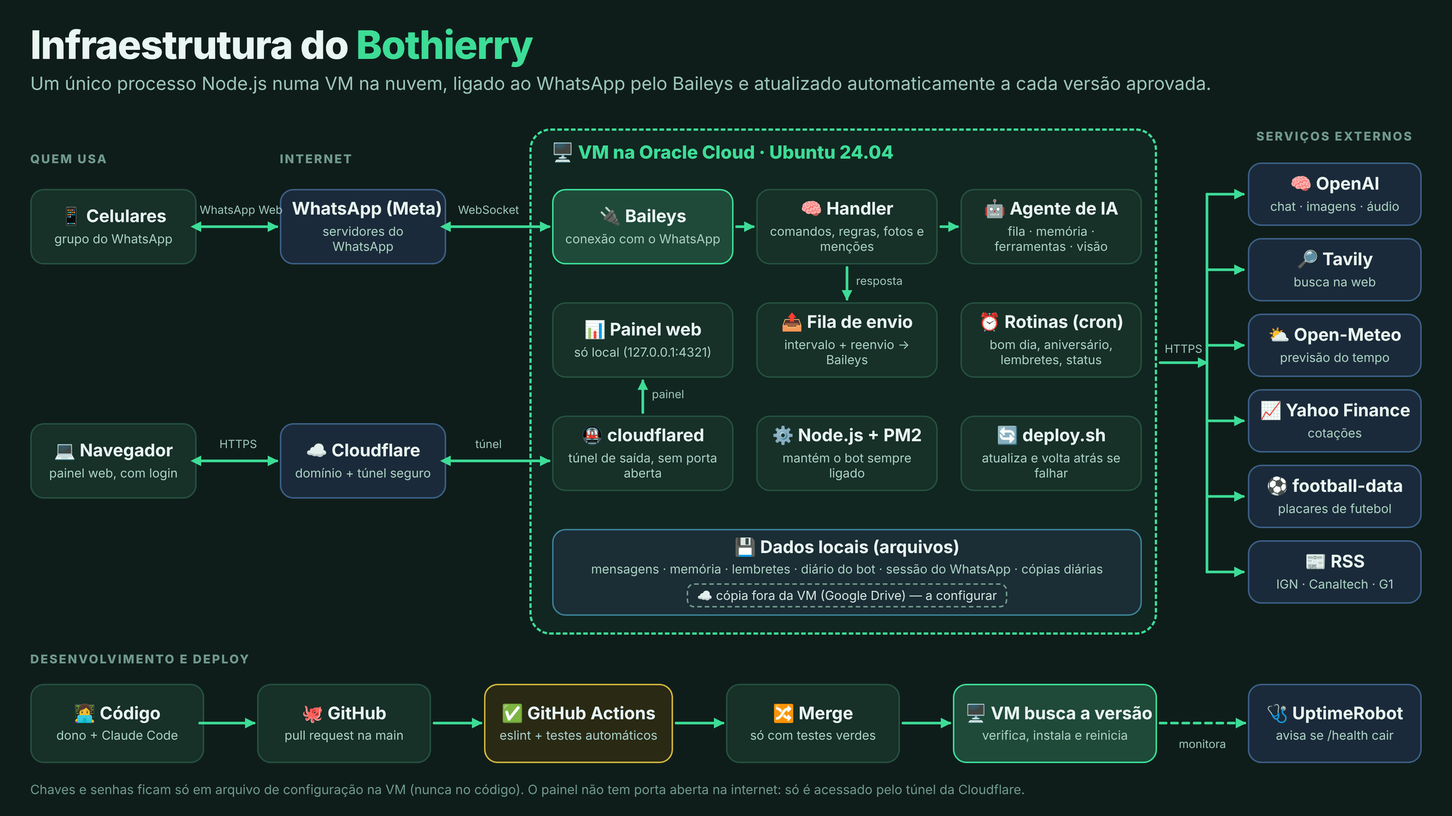
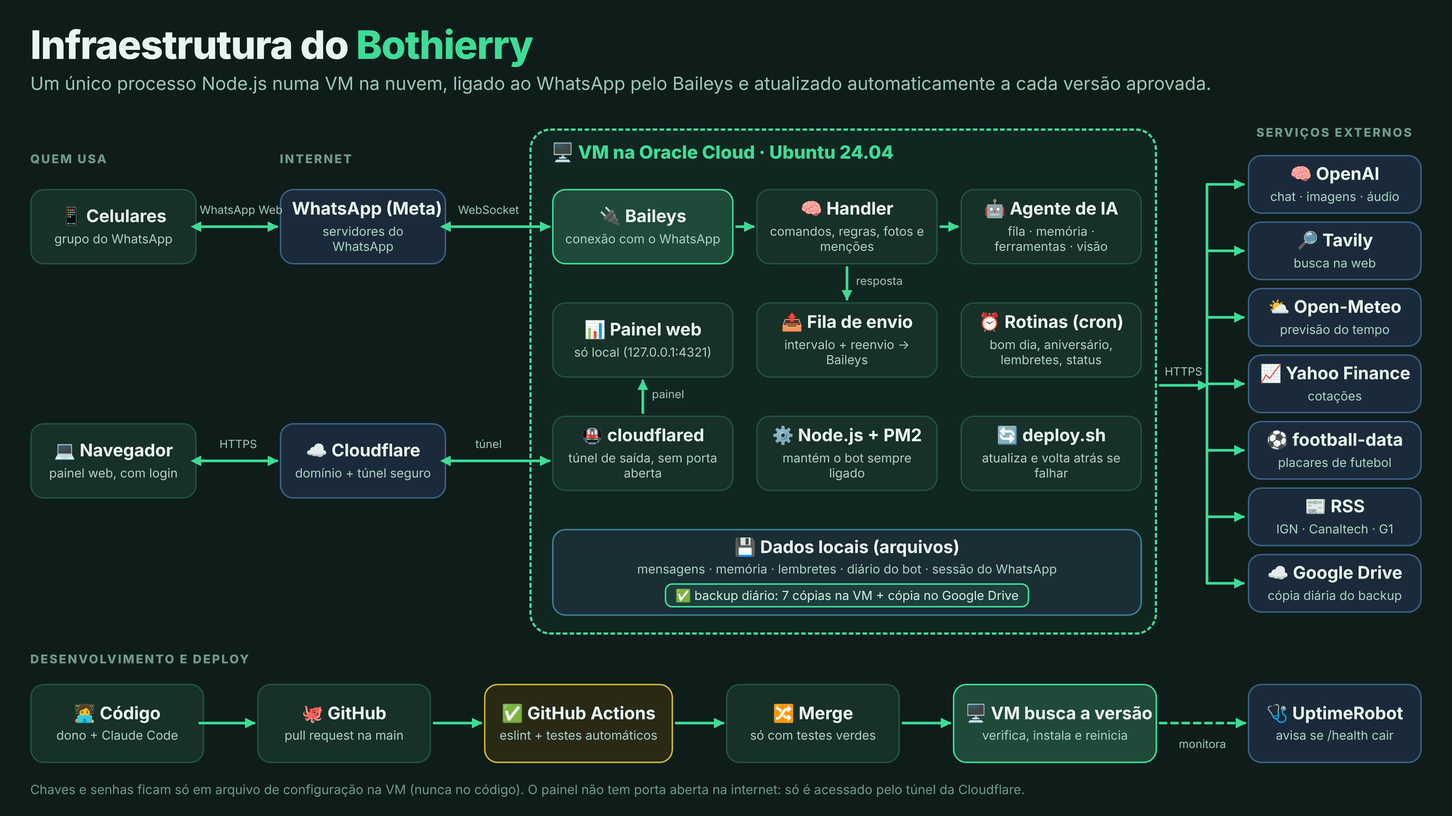
Backup no Google Drive ativo: README, infografico e gerador (#89)
Claude-Session: https://claude.ai/code/session_01PGpMX7HsPNBaK5Bjc6Ssx7

Changed region(s): [[0.7812, 0.1556, 1.0, 0.7778], [0.4062, 0.6844, 0.75, 0.7467]]

diff --git a/docs/fontes/infraestrutura.html b/docs/fontes/infraestrutura.html
@@ -1,0 +1,48 @@
+<!doctype html><html lang="pt-BR"><head><meta charset="utf-8"><meta name="viewport" content="width=1920">
+<style>
+*{box-sizing:border-box;margin:0;padding:0}
+body{width:1920px;height:1080px;background:#0f1d1a;color:#e9f5f1;font-family:-apple-system,"Segoe UI",Roboto,"Helvetica Neue",Arial,sans-serif;position:relative;overflow:hidden}
+h1{position:absolute;left:40px;top:28px;font-size:52px;font-weight:800;letter-spacing:-1px}
+h1 span{color:#3ddc97}
+.sub{position:absolute;left:40px;top:96px;font-size:24px;color:#9fc4b8}
+.b{position:absolute;background:#173028;border:2px solid #25503f;border-radius:18px;padding:12px 14px;display:flex;flex-direction:column;justify-content:center;text-align:center}
+.b b{font-size:23px;line-height:1.15;white-space:nowrap}
+.b small{font-size:16.5px;color:#a9d1c4;margin-top:6px;line-height:1.25}
+.b.hot{background:#1f4a39;border-color:#3ddc97}
+.b.ext{background:#1b2a3a;border-color:#3b5f86}
+.b.ci{background:#2a2a14;border-color:#c9b43c}
+.b.store{background:#1b2d35;border-color:#3a7f93}
+.ok{display:inline-block;margin-top:8px;border:2px solid #3ddc97;border-radius:10px;padding:4px 12px;color:#cfeee2;background:rgba(61,220,151,.10)}
+.vm{position:absolute;border:3px dashed #3ddc97;border-radius:28px;background:rgba(61,220,151,.05)}
+.vmt{position:absolute;top:14px;left:26px;font-size:24px;font-weight:800;color:#3ddc97}
+.arrows{position:absolute;left:0;top:0;pointer-events:none}
+.lab{position:absolute;font-size:15px;color:#9fc4b8;white-space:nowrap}
+.sect{position:absolute;font-size:16px;letter-spacing:2px;font-weight:800;color:#6f9a8c}
+.colt{position:absolute;font-size:16px;letter-spacing:2px;font-weight:800;color:#6f9a8c;text-align:center;text-transform:uppercase}
+.note{position:absolute;left:40px;top:1036px;font-size:17px;color:#6f9a8c}
+</style></head><body>
+<h1>Infraestrutura do <span>Bothierry</span></h1>
+<div class="sub">Um único processo Node.js numa VM na nuvem, ligado ao WhatsApp pelo Baileys e atualizado automaticamente a cada versão aprovada.</div>
+<div class="vm" style="left:700px;top:170px;width:830px;height:670px"><div class="vmt">🖥 VM na Oracle Cloud · Ubuntu 24.04</div></div>
+<div class="b " style="left:40px;top:250px;width:220px;height:100px"><b>📱 Celulares</b><small>grupo do WhatsApp</small></div><div class="b ext" style="left:370px;top:250px;width:220px;height:100px"><b>WhatsApp (Meta)</b><small>servidores do WhatsApp</small></div><div class="b " style="left:40px;top:560px;width:220px;height:100px"><b>💻 Navegador</b><small>painel web, com login</small></div><div class="b ext" style="left:370px;top:560px;width:220px;height:100px"><b>☁ Cloudflare</b><small>domínio + túnel seguro</small></div><div class="b hot" style="left:730px;top:250px;width:240px;height:100px"><b>🔌 Baileys</b><small>conexão com o WhatsApp</small></div><div class="b " style="left:1000px;top:250px;width:240px;height:100px"><b>🧠 Handler</b><small>comandos, regras, fotos e menções</small></div><div class="b " style="left:1270px;top:250px;width:240px;height:100px"><b>🤖 Agente de IA</b><small>fila · memória · ferramentas · visão</small></div><div class="b " style="left:730px;top:400px;width:240px;height:100px"><b>📊 Painel web</b><small>só local (127.0.0.1:4321)</small></div><div class="b " style="left:1000px;top:400px;width:240px;height:100px"><b>📤 Fila de envio</b><small>intervalo + reenvio → Baileys</small></div><div class="b " style="left:1270px;top:400px;width:240px;height:100px"><b>⏰ Rotinas (cron)</b><small>bom dia, aniversário, lembretes, status</small></div><div class="b " style="left:730px;top:550px;width:240px;height:100px"><b>🚇 cloudflared</b><small>túnel de saída, sem porta aberta</small></div><div class="b " style="left:1000px;top:550px;width:240px;height:100px"><b>⚙ Node.js + PM2</b><small>mantém o bot sempre ligado</small></div><div class="b " style="left:1270px;top:550px;width:240px;height:100px"><b>🔄 deploy.sh</b><small>atualiza e volta atrás se falhar</small></div><div class="b store" style="left:730px;top:700px;width:780px;height:115px"><b>💾 Dados locais (arquivos)</b><small>mensagens · memória · lembretes · diário do bot · sessão do WhatsApp<br><span class="ok">✅ backup diário: 7 cópias na VM + cópia no Google Drive</span></small></div><div class="b ext" style="left:1650px;top:205px;width:230px;height:78px"><b>🧠 OpenAI</b><small>chat · imagens · áudio</small></div><div class="b ext" style="left:1650px;top:293px;width:230px;height:78px"><b>🔎 Tavily</b><small>busca na web</small></div><div class="b ext" style="left:1650px;top:381px;width:230px;height:78px"><b>⛅ Open-Meteo</b><small>previsão do tempo</small></div><div class="b ext" style="left:1650px;top:469px;width:230px;height:78px"><b>📈 Yahoo Finance</b><small>cotações</small></div><div class="b ext" style="left:1650px;top:557px;width:230px;height:78px"><b>⚽ football-data</b><small>placares de futebol</small></div><div class="b ext" style="left:1650px;top:645px;width:230px;height:78px"><b>📰 RSS</b><small>IGN · Canaltech · G1</small></div><div class="b ext" style="left:1650px;top:733px;width:230px;height:78px"><b>☁ Google Drive</b><small>cópia diária do backup</small></div><div class="colt" style="left:1630px;top:165px;width:270px">Serviços externos</div><div class="b " style="left:40px;top:905px;width:230px;height:105px"><b>👩💻 Código</b><small>dono + Claude Code</small></div><div class="b " style="left:340px;top:905px;width:230px;height:105px"><b>🐙 GitHub</b><small>pull request na main</small></div><div class="b ci" style="left:640px;top:905px;width:250px;height:105px"><b>✅ GitHub Actions</b><small>eslint + testes automáticos</small></div><div class="b " style="left:960px;top:905px;width:230px;height:105px"><b>🔀 Merge</b><small>só com testes verdes</small></div><div class="b hot" style="left:1260px;top:905px;width:270px;height:105px"><b>🖥 VM busca a versão</b><small>verifica, instala e reinicia</small></div><div class="b ext" style="left:1650px;top:905px;width:230px;height:105px"><b>🩺 UptimeRobot</b><small>avisa se /health cair</small></div>
+<svg class="arrows" width="1920" height="1080" viewBox="0 0 1920 1080" xmlns="http://www.w3.org/2000/svg">
+<defs>
+<marker id="a" markerUnits="userSpaceOnUse" markerWidth="16" markerHeight="16" refX="13" refY="8" orient="auto"><path d="M1,1 L15,8 L1,15 z" fill="#3ddc97"/></marker>
+<marker id="s" markerUnits="userSpaceOnUse" markerWidth="16" markerHeight="16" refX="3" refY="8" orient="auto-start-reverse"><path d="M1,1 L15,8 L1,15 z" fill="#3ddc97"/></marker>
+</defs>
+<g stroke="#3ddc97" stroke-width="3.5" fill="none" stroke-linecap="round"><line x1="264" y1="300" x2="366" y2="300" marker-start="url(#s)" marker-end="url(#a)"/><line x1="594" y1="300" x2="726" y2="300" marker-start="url(#s)" marker-end="url(#a)"/><line x1="264" y1="610" x2="366" y2="610" marker-start="url(#s)" marker-end="url(#a)"/><line x1="594" y1="610" x2="726" y2="610" marker-start="url(#s)" marker-end="url(#a)"/><line x1="974" y1="300" x2="996" y2="300" marker-end="url(#a)"/><line x1="1244" y1="300" x2="1266" y2="300" marker-end="url(#a)"/><line x1="1120" y1="354" x2="1120" y2="396" marker-end="url(#a)"/><line x1="850" y1="546" x2="850" y2="504" marker-end="url(#a)"/><line x1="1534" y1="510" x2="1596" y2="510" marker-end="url(#a)"/><line x1="264" y1="957" x2="336" y2="957" marker-end="url(#a)"/><line x1="574" y1="957" x2="636" y2="957" marker-end="url(#a)"/><line x1="894" y1="957" x2="956" y2="957" marker-end="url(#a)"/><line x1="1194" y1="957" x2="1256" y2="957" marker-end="url(#a)"/><line x1="1534" y1="957" x2="1646" y2="957" marker-end="url(#a)" stroke-dasharray="8 7"/><line x1="1596" y1="244" x2="1596" y2="772" /><line x1="1596" y1="244" x2="1644" y2="244" marker-end="url(#a)"/><line x1="1596" y1="332" x2="1644" y2="332" marker-end="url(#a)"/><line x1="1596" y1="420" x2="1644" y2="420" marker-end="url(#a)"/><line x1="1596" y1="508" x2="1644" y2="508" marker-end="url(#a)"/><line x1="1596" y1="596" x2="1644" y2="596" marker-end="url(#a)"/><line x1="1596" y1="684" x2="1644" y2="684" marker-end="url(#a)"/><line x1="1596" y1="772" x2="1644" y2="772" marker-end="url(#a)"/></g></svg>
+
+<div class="lab" style="left:264px;top:268px;width:102px;text-align:center">WhatsApp Web</div>
+<div class="lab" style="left:594px;top:268px;width:104px;text-align:center">WebSocket</div>
+<div class="lab" style="left:264px;top:578px;width:102px;text-align:center">HTTPS</div>
+<div class="lab" style="left:594px;top:578px;width:104px;text-align:center">túnel</div>
+<div class="lab" style="left:1132px;top:362px">resposta</div>
+<div class="lab" style="left:862px;top:512px">painel</div>
+<div class="lab" style="left:1534px;top:482px;width:62px;text-align:center">HTTPS</div>
+<div class="lab" style="left:1534px;top:975px;width:112px;text-align:center">monitora</div>
+<div class="sect" style="left:40px;top:200px">QUEM USA</div>
+<div class="sect" style="left:370px;top:200px">INTERNET</div>
+<div class="sect" style="left:40px;top:862px">DESENVOLVIMENTO E DEPLOY</div>
+
+<div class="note">Chaves e senhas ficam só em arquivo de configuração na VM (nunca no código). O painel não tem porta aberta na internet: só é acessado pelo túnel da Cloudflare.</div>
+</body></html>

diff --git a/docs/fontes/gerador/infra.py b/docs/fontes/gerador/infra.py
@@ -1,0 +1,107 @@
+# Gera o infografico da infraestrutura (docs/infraestrutura.png). Saida: infraestrutura.html (1920x1080).
+boxes = []
+def box(x,y,w,h,title,sub='',cls=''):
+    boxes.append(f'<div class="b {cls}" style="left:{x}px;top:{y}px;width:{w}px;height:{h}px"><b>{title}</b><small>{sub}</small></div>')
+
+box(40,250,220,100,'📱 Celulares','grupo do WhatsApp')
+box(370,250,220,100,'WhatsApp (Meta)','servidores do WhatsApp','ext')
+box(40,560,220,100,'💻 Navegador','painel web, com login')
+box(370,560,220,100,'☁ Cloudflare','domínio + túnel seguro','ext')
+
+VX,VY,VW,VH = 700,170,830,670
+vm = f'<div class="vm" style="left:{VX}px;top:{VY}px;width:{VW}px;height:{VH}px"><div class="vmt">🖥 VM na Oracle Cloud · Ubuntu 24.04</div></div>'
+cw,ch=240,100
+cx=[730,1000,1270]
+ry=[250,400,550]
+box(cx[0],ry[0],cw,ch,'🔌 Baileys','conexão com o WhatsApp','hot')
+box(cx[1],ry[0],cw,ch,'🧠 Handler','comandos, regras, fotos e menções')
+box(cx[2],ry[0],cw,ch,'🤖 Agente de IA','fila · memória · ferramentas · visão')
+box(cx[0],ry[1],cw,ch,'📊 Painel web','só local (127.0.0.1:4321)')
+box(cx[1],ry[1],cw,ch,'📤 Fila de envio','intervalo + reenvio → Baileys')
+box(cx[2],ry[1],cw,ch,'⏰ Rotinas (cron)','bom dia, aniversário, lembretes, status')
+box(cx[0],ry[2],cw,ch,'🚇 cloudflared','túnel de saída, sem porta aberta')
+box(cx[1],ry[2],cw,ch,'⚙ Node.js + PM2','mantém o bot sempre ligado')
+box(cx[2],ry[2],cw,ch,'🔄 deploy.sh','atualiza e volta atrás se falhar')
+box(730,700,780,115,'💾 Dados locais (arquivos)','mensagens · memória · lembretes · diário do bot · sessão do WhatsApp<br><span class="ok">✅ backup diário: 7 cópias na VM + cópia no Google Drive</span>','store')
+
+ex=[('🧠 OpenAI','chat · imagens · áudio'),('🔎 Tavily','busca na web'),('⛅ Open-Meteo','previsão do tempo'),('📈 Yahoo Finance','cotações'),('⚽ football-data','placares de futebol'),('📰 RSS','IGN · Canaltech · G1'),('☁ Google Drive','cópia diária do backup')]
+EXX=1650; EXW=230; EY0=205; EH=78; EG=10
+for i,(t,s) in enumerate(ex):
+    box(EXX,EY0+i*(EH+EG),EXW,EH,t,s,'ext')
+boxes.append(f'<div class="colt" style="left:{EXX-20}px;top:165px;width:{EXW+40}px">Serviços externos</div>')
+
+PY=905
+box(40,PY,230,105,'👩💻 Código','dono + Claude Code')
+box(340,PY,230,105,'🐙 GitHub','pull request na main')
+box(640,PY,250,105,'✅ GitHub Actions','eslint + testes automáticos','ci')
+box(960,PY,230,105,'🔀 Merge','só com testes verdes')
+box(1260,PY,270,105,'🖥 VM busca a versão','verifica, instala e reinicia','hot')
+box(EXX,PY,EXW,105,'🩺 UptimeRobot','avisa se /health cair','ext')
+
+def arr(x1,y1,x2,y2,both=False,dash=False):
+    d=' stroke-dasharray="8 7"' if dash else ''
+    ms=' marker-start="url(#s)"' if both else ''
+    return f'<line x1="{x1}" y1="{y1}" x2="{x2}" y2="{y2}"{ms} marker-end="url(#a)"{d}/>'
+lines=[
+ arr(264,300,366,300,True), arr(594,300,726,300,True),
+ arr(264,610,366,610,True), arr(594,610,726,610,True),
+ arr(974,300,996,300), arr(1244,300,1266,300),
+ arr(1120,354,1120,396), arr(850,546,850,504),
+ arr(1534,510,1596,510),
+ arr(264,957,336,957), arr(574,957,636,957), arr(894,957,956,957), arr(1194,957,1256,957),
+ arr(1534,957,1646,957,dash=True),
+]
+cy=[EY0+EH//2+i*(EH+EG) for i in range(len(ex))]
+trunk=f'<line x1="1596" y1="{cy[0]}" x2="1596" y2="{cy[-1]}" />'
+branches=''.join(arr(1596,y,1644,y) for y in cy)
+svg=f'''<svg class="arrows" width="1920" height="1080" viewBox="0 0 1920 1080" xmlns="http://www.w3.org/2000/svg">
+<defs>
+<marker id="a" markerUnits="userSpaceOnUse" markerWidth="16" markerHeight="16" refX="13" refY="8" orient="auto"><path d="M1,1 L15,8 L1,15 z" fill="#3ddc97"/></marker>
+<marker id="s" markerUnits="userSpaceOnUse" markerWidth="16" markerHeight="16" refX="3" refY="8" orient="auto-start-reverse"><path d="M1,1 L15,8 L1,15 z" fill="#3ddc97"/></marker>
+</defs>
+<g stroke="#3ddc97" stroke-width="3.5" fill="none" stroke-linecap="round">{''.join(lines)}{trunk}{branches}</g></svg>'''
+labels='''
+<div class="lab" style="left:264px;top:268px;width:102px;text-align:center">WhatsApp Web</div>
+<div class="lab" style="left:594px;top:268px;width:104px;text-align:center">WebSocket</div>
+<div class="lab" style="left:264px;top:578px;width:102px;text-align:center">HTTPS</div>
+<div class="lab" style="left:594px;top:578px;width:104px;text-align:center">túnel</div>
+<div class="lab" style="left:1132px;top:362px">resposta</div>
+<div class="lab" style="left:862px;top:512px">painel</div>
+<div class="lab" style="left:1534px;top:482px;width:62px;text-align:center">HTTPS</div>
+<div class="lab" style="left:1534px;top:975px;width:112px;text-align:center">monitora</div>
+<div class="sect" style="left:40px;top:200px">QUEM USA</div>
+<div class="sect" style="left:370px;top:200px">INTERNET</div>
+<div class="sect" style="left:40px;top:862px">DESENVOLVIMENTO E DEPLOY</div>
+'''
+html=f'''<!doctype html><html lang="pt-BR"><head><meta charset="utf-8"><meta name="viewport" content="width=1920">
+<style>
+*{{box-sizing:border-box;margin:0;padding:0}}
+body{{width:1920px;height:1080px;background:#0f1d1a;color:#e9f5f1;font-family:-apple-system,"Segoe UI",Roboto,"Helvetica Neue",Arial,sans-serif;position:relative;overflow:hidden}}
+h1{{position:absolute;left:40px;top:28px;font-size:52px;font-weight:800;letter-spacing:-1px}}
+h1 span{{color:#3ddc97}}
+.sub{{position:absolute;left:40px;top:96px;font-size:24px;color:#9fc4b8}}
+.b{{position:absolute;background:#173028;border:2px solid #25503f;border-radius:18px;padding:12px 14px;display:flex;flex-direction:column;justify-content:center;text-align:center}}
+.b b{{font-size:23px;line-height:1.15;white-space:nowrap}}
+.b small{{font-size:16.5px;color:#a9d1c4;margin-top:6px;line-height:1.25}}
+.b.hot{{background:#1f4a39;border-color:#3ddc97}}
+.b.ext{{background:#1b2a3a;border-color:#3b5f86}}
+.b.ci{{background:#2a2a14;border-color:#c9b43c}}
+.b.store{{background:#1b2d35;border-color:#3a7f93}}
+.ok{{display:inline-block;margin-top:8px;border:2px solid #3ddc97;border-radius:10px;padding:4px 12px;color:#cfeee2;background:rgba(61,220,151,.10)}}
+.vm{{position:absolute;border:3px dashed #3ddc97;border-radius:28px;background:rgba(61,220,151,.05)}}
+.vmt{{position:absolute;top:14px;left:26px;font-size:24px;font-weight:800;color:#3ddc97}}
+.arrows{{position:absolute;left:0;top:0;pointer-events:none}}
+.lab{{position:absolute;font-size:15px;color:#9fc4b8;white-space:nowrap}}
+.sect{{position:absolute;font-size:16px;letter-spacing:2px;font-weight:800;color:#6f9a8c}}
+.colt{{position:absolute;font-size:16px;letter-spacing:2px;font-weight:800;color:#6f9a8c;text-align:center;text-transform:uppercase}}
+.note{{position:absolute;left:40px;top:1036px;font-size:17px;color:#6f9a8c}}
+</style></head><body>
+<h1>Infraestrutura do <span>Bothierry</span></h1>
+<div class="sub">Um único processo Node.js numa VM na nuvem, ligado ao WhatsApp pelo Baileys e atualizado automaticamente a cada versão aprovada.</div>
+{vm}
+{''.join(boxes)}
+{svg}
+{labels}
+<div class="note">Chaves e senhas ficam só em arquivo de configuração na VM (nunca no código). O painel não tem porta aberta na internet: só é acessado pelo túnel da Cloudflare.</div>
+</body></html>'''
+open('infraestrutura.html','w').write(html)

diff --git a/README.md b/README.md
@@ -16,7 +16,7 @@ O armazenamento é um conjunto de arquivos de texto (`messages.jsonl` etc.) em v
 
 ![Infraestrutura do Bothierry: celulares ↔ WhatsApp ↔ Baileys na VM da Oracle (handler, agente de IA, fila de envio, rotinas, painel, cloudflared, PM2, deploy) com serviços externos e o caminho de deploy via GitHub](docs/infraestrutura.png)
 
-*Infraestrutura em uma imagem (o diagrama abaixo mostra as mesmas peças em formato editável). Os fluxogramas da [seção 3](#3-fluxos) seguem o mesmo estilo visual; os fontes e o gerador estão em `docs/fontes/`.*
+*Infraestrutura em uma imagem (o diagrama abaixo mostra as mesmas peças em formato editável). Os fluxogramas da [seção 3](#3-fluxos) seguem o mesmo estilo visual; os fontes e o gerador (inclusive deste infográfico) estão em `docs/fontes/`.*
 
 Visão geral de quem fala com quem:
 
@@ -197,6 +197,7 @@ Tudo em arquivos na pasta do projeto, **na VM** (a maioria está no `.gitignore`
 | `.env` | chaves e senhas (veja [seção 8](#8-configuração-env)) | não |
 | `messages.jsonl` | mensagens dos últimos **14 dias** ("janela quente", uma linha JSON por mensagem, texto incluso) | não |
 | `archive/messages-AAAA-MM.jsonl` | mensagens mais antigas, um arquivo por mês (arquiva ao iniciar e todo dia às 03h) | não |
+| `backups/` | backups diários `.tar.gz` (7 mais recentes); cópia também no Google Drive (15 dias) | não |
 | `metrics.jsonl` | métricas do painel, 30 dias de retenção | não |
 | `events.json` | eventos, confirmados e ausentes | não |
 | `birthdays.json`, `apelidos.txt` | aniversariantes e apelidos | não |
@@ -263,6 +264,7 @@ Além disso, ao conectar o bot checa aniversário, nome do grupo, tema da foto e
 | **BrasilAPI** | feriados nacionais | não |
 | **TSE** | apuração das eleições | não |
 | **Cloudflare** | túnel HTTPS e DNS do painel | conta Cloudflare |
+| **Google Drive** (via `rclone`) | cópia diária do backup fora da VM (escopo `drive.file`, pasta `bothierry-backups`) | token do `rclone` na VM (`~/.config/rclone/`) |
 | **GitHub** (repositório e Actions) | código, PRs e testes automáticos antes do deploy | não |
 | **UptimeRobot** | monitor externo do `/health` | conta UptimeRobot |
 | **Chart.js** (CDN jsDelivr) | gráficos do painel, carregado no navegador | não |
@@ -280,6 +282,7 @@ Arquivo `.env` na raiz do projeto, **só na VM** (nunca no git). O PM2 o carrega
 | `OPENAI_API_KEY` | chave da OpenAI (resumo, transcrição, IA, imagens) |
 | `DASHBOARD_USER` / `DASHBOARD_PASS` | login comum do painel (perfil **viewer**). Se `DASHBOARD_PASS` ficar vazia, o painel fica **aberto sem login** |
 | `ADMIN_USER` / `ADMIN_PASS` | login de **administrador** do painel (`ADMIN_USER` padrão: `root`). Sem `ADMIN_PASS`, ninguém entra como admin |
+| `BACKUP_RCLONE_REMOTE` | destino do `rclone` pra cópia do backup fora da VM (ex.: `gdrive:bothierry-backups`); sem ela, o backup fica só na VM |
 | `DASHBOARD_HOST` | `127.0.0.1` faz o painel responder só localmente (acesso de fora só pelo túnel) |
 | `AI_MONTHLY_BUDGET_USD` | teto mensal de gasto com IA (padrão `10`; `0` desliga). Passou, a IA pausa até o dia 1º |
 | `TAVILY_API_KEY` | busca na web e leitura de links (opcional) |
@@ -445,10 +448,11 @@ ssh -i <chave> ubuntu@<ip-da-vm> "cd ~/bothierry && node --check src/index.js &&
 - **Painel só pelo túnel (HTTPS):** com `DASHBOARD_HOST=127.0.0.1` no `.env` o painel só responde à própria VM, e o único caminho de fora passa a ser o túnel do Cloudflare (`https://painel.bothierry.com.br`). Antes de ligar, confirme que o túnel aponta pra `http://localhost:4321`; depois, feche também a porta 4321 no firewall da Oracle (Security List).
 - **Checagem antes do deploy (CI):** o GitHub roda `npm run check` (ESLint: variável indefinida, chave repetida…) e `npm test` (testes em `test/`) em todo PR e push na `main` (`.github/workflows/ci.yml`). Rode os dois localmente antes de abrir PR.
 - **Aviso de queda (monitor externo):** `https://painel.bothierry.com.br/health` responde `200 {"status":"ok"}` com o WhatsApp conectado e `503` (`desconectado`/`deslogado`) quando cai. Cadastre essa URL num monitor gratuito (ex.: UptimeRobot, tipo *HTTP(s)*, intervalo de 5 min, alerta por e-mail/app) pra ser avisado — o monitor também avisa se o painel/VM inteiro sair do ar.
-- **Backup:** todo dia às 03h40 (`src/backup.js`) os dados que não estão no git viram `backups/bothierry-AAAA-MM-DD.tar.gz` (7 mais recentes). **`.env` e `auth_info/` ficam de fora de propósito** (dão acesso à conta e ao número; são fáceis de refazer). Pra ter uma cópia **fora da VM**, instale o `rclone`, configure um destino (ex.: Google Drive) e ponha `BACKUP_RCLONE_REMOTE=gdrive:bothierry-backups` no `.env` — o bot copia e apaga lá o que tiver mais de 15 dias (use uma pasta só pra isso). Pra restaurar: `tar -xzf backups/bothierry-AAAA-MM-DD.tar.gz` na pasta do projeto, com o bot parado.
+- **Backup (ativo, com cópia no Google Drive):** todo dia às 03h40 (`src/backup.js`) os dados que não estão no git viram `backups/bothierry-AAAA-MM-DD.tar.gz` (7 mais recentes na VM) e, com `BACKUP_RCLONE_REMOTE=gdrive:bothierry-backups` no `.env`, o arquivo também é copiado pro **Google Drive** com o `rclone` (o bot apaga lá o que tiver mais de 15 dias; use uma pasta só pra isso). **`.env` e `auth_info/` ficam de fora de propósito** (dão acesso às contas e ao número; são fáceis de refazer) — guarde uma cópia do `.env` num gerenciador de senhas. Pra restaurar: baixe o `.tar.gz` (da VM ou do Drive) e rode `tar -xzf bothierry-AAAA-MM-DD.tar.gz` na pasta do projeto, com o bot parado. Pra testar na hora: `node --env-file=.env -e "import('./src/backup.js').then(async m=>console.log(await m.runBackup()))"` (mostra o arquivo, o tamanho e `remote: true` se copiou pro Drive).
 - **Resposta do bot não chegou no WhatsApp:** abra o painel como admin → **Agente → Fila de respostas**: lá aparecem as perguntas não entregues com o motivo, os reenvios e as esperas por reconexão. Se o WhatsApp estava fora, a resposta guardada é reenviada sozinha (30 s, 1, 2 e 5 min); passando de 30 min a pergunta é descartada.
 - **Bot reiniciando sem motivo aparente:** erros inesperados (`unhandledRejection`/`uncaughtException`) agora só são registrados em *Sistema → Erros recentes* em vez de derrubar o processo; 5 erros graves em 1 minuto ainda reiniciam pelo PM2. Veja `pm2 status` (coluna `↺`, reinícios) e `pm2 logs Bothierry --err`.
 - **Função de IA diz "não configurado":** falta `TAVILY_API_KEY` ou `FOOTBALL_DATA_API_KEY` no `.env` (depois de editar, `pm2 restart Bothierry --update-env`). Ao editar o `.env` por comando, **não use `!!`** no bash (é expansão de histórico) e confira com `node --env-file=.env -p "Boolean(process.env.TAVILY_API_KEY)"`.
+- **Configurar a cópia no Google Drive (uma vez):** na VM, `sudo apt-get install -y rclone` e `rclone config` → `n`, nome `gdrive`, tipo `drive`, `client_id`/`client_secret` em branco, escopo **`drive.file`** (o rclone só enxerga o que ele mesmo criar; o resto do Drive fica fora do alcance), avançado `n` e **auto config `n`** (a VM não tem navegador). Ele mostra um comando `rclone authorize "drive" "…"`: rode **no seu computador** (com o rclone instalado e um navegador), entre na conta Google e autorize; cole o token que ele imprimir no prompt `config_token>` da VM, responda `n` pra *team drive*, `y` e `q`. Teste com `rclone mkdir gdrive:bothierry-backups` e `rclone lsd gdrive:`, ponha `BACKUP_RCLONE_REMOTE=gdrive:bothierry-backups` no `.env` e `pm2 restart Bothierry --update-env`. **O token fica em `~/.config/rclone/rclone.conf` na VM (dá acesso à pasta de backup): nunca o cole em chat ou no git.**
 - **Sessão deslogada:** o bot guarda a sessão antiga (`auth_info.deslogada-<data>/`, só as 2 últimas) e gera um QR novo sozinho. Entre no painel como **admin → Sistema**: o QR aparece no topo (troca a cada ~20 s); leia em *WhatsApp (celular do bot) → Aparelhos conectados → Conectar um aparelho*. O mesmo QR sai no log (`pm2 logs`). Pra desfazer: pare o bot, apague `auth_info/` e renomeie a pasta guardada de volta.
 - **Memória "RSS" alta no painel:** é normal logo após reconexões (buffers nativos do Baileys). Preocupa só se continuar subindo sem parar — o PM2 reinicia sozinho acima de 750 MB.
 - **Link do `!painel` não chega no privado:** o bot avisa no grupo; peça pra pessoa mandar um "oi" pro bot no privado e tentar de novo.

diff --git a/docs/fontes/LEIA-ME.md b/docs/fontes/LEIA-ME.md
@@ -2,8 +2,8 @@
 
 As imagens `docs/fluxo-*.png` (e o infográfico `docs/infraestrutura.png`) seguem o mesmo estilo visual: fundo verde-escuro, caixas arredondadas, setas em verde-menta.
 
-- `fluxo-d1.html` … `fluxo-d5.html`: o HTML de cada fluxograma (abre em qualquer navegador).
-- `gerador/`: o código Python que gera esses HTML (`lib.py` é o mini-motor de layout; `d1.py` … `d5.py` descrevem cada diagrama) e `shot.cjs`, que tira o screenshot com o Playwright.
+- `fluxo-d1.html` … `fluxo-d5.html` e `infraestrutura.html`: o HTML de cada diagrama (abre em qualquer navegador).
+- `gerador/`: o código Python que gera esses HTML (`lib.py` é o mini-motor de layout; `d1.py` … `d5.py` descrevem cada fluxograma; `infra.py` gera o infográfico da infraestrutura, 1920×1080) e `shot.cjs`, que tira o screenshot com o Playwright.
 
 Para refazer um diagrama (na pasta `docs/fontes/gerador/`):
 
